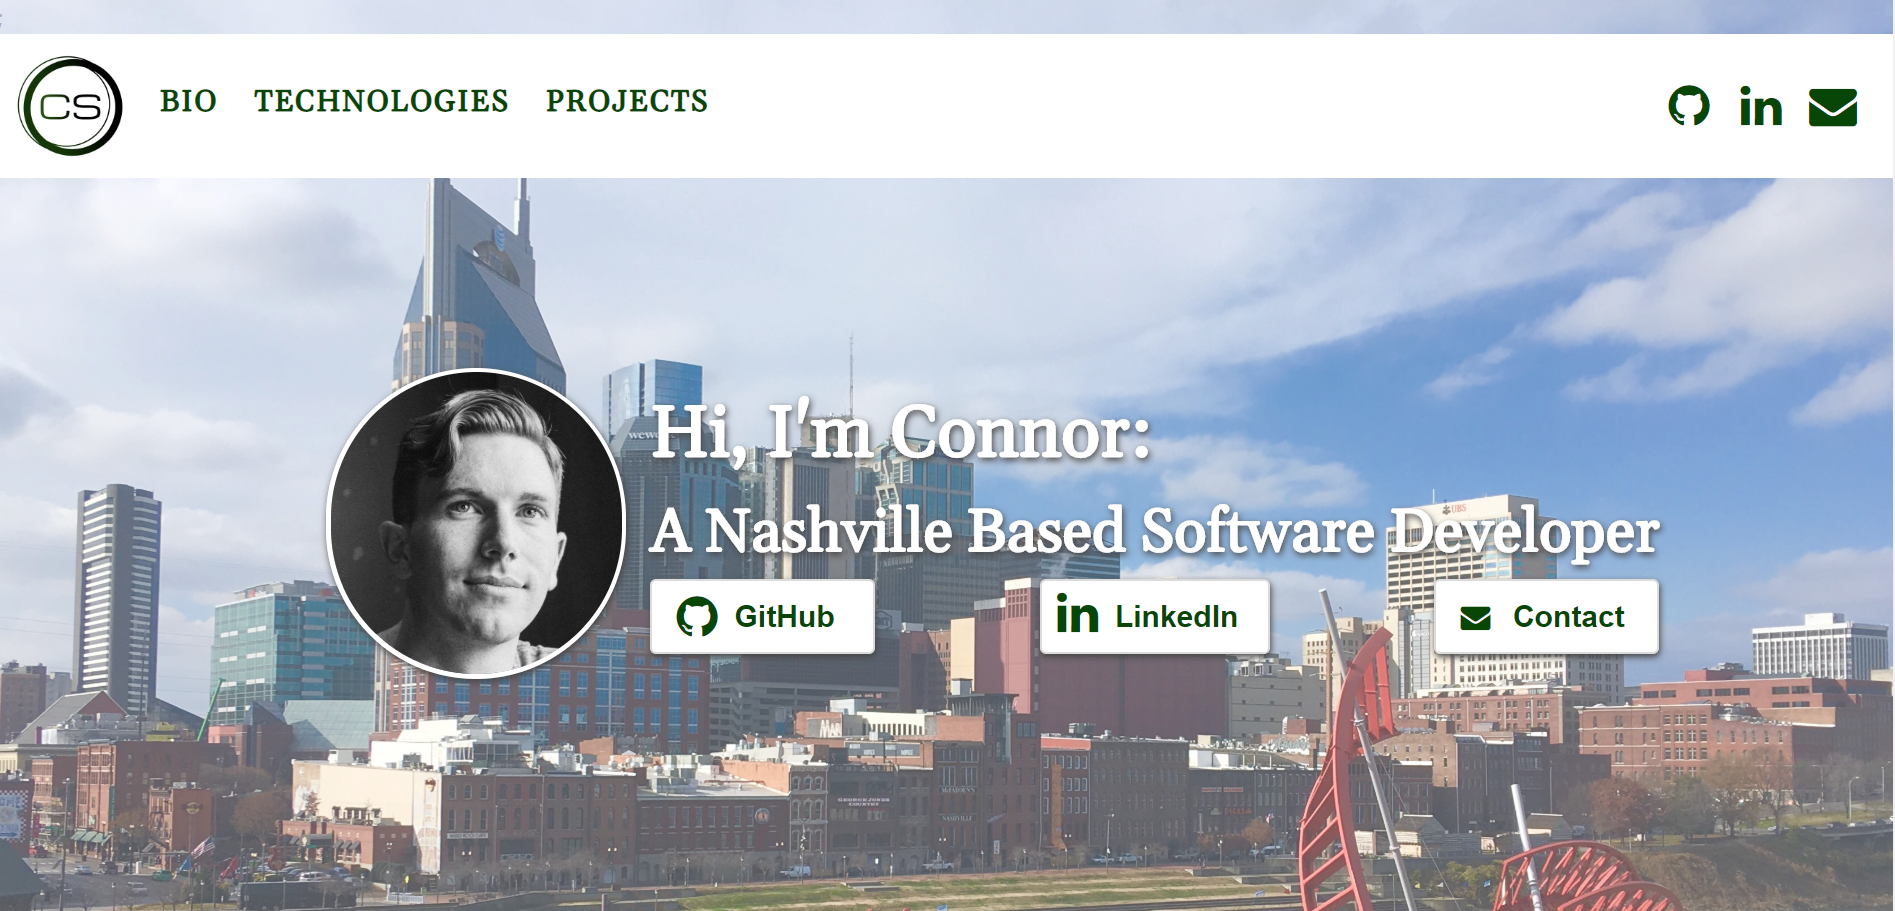
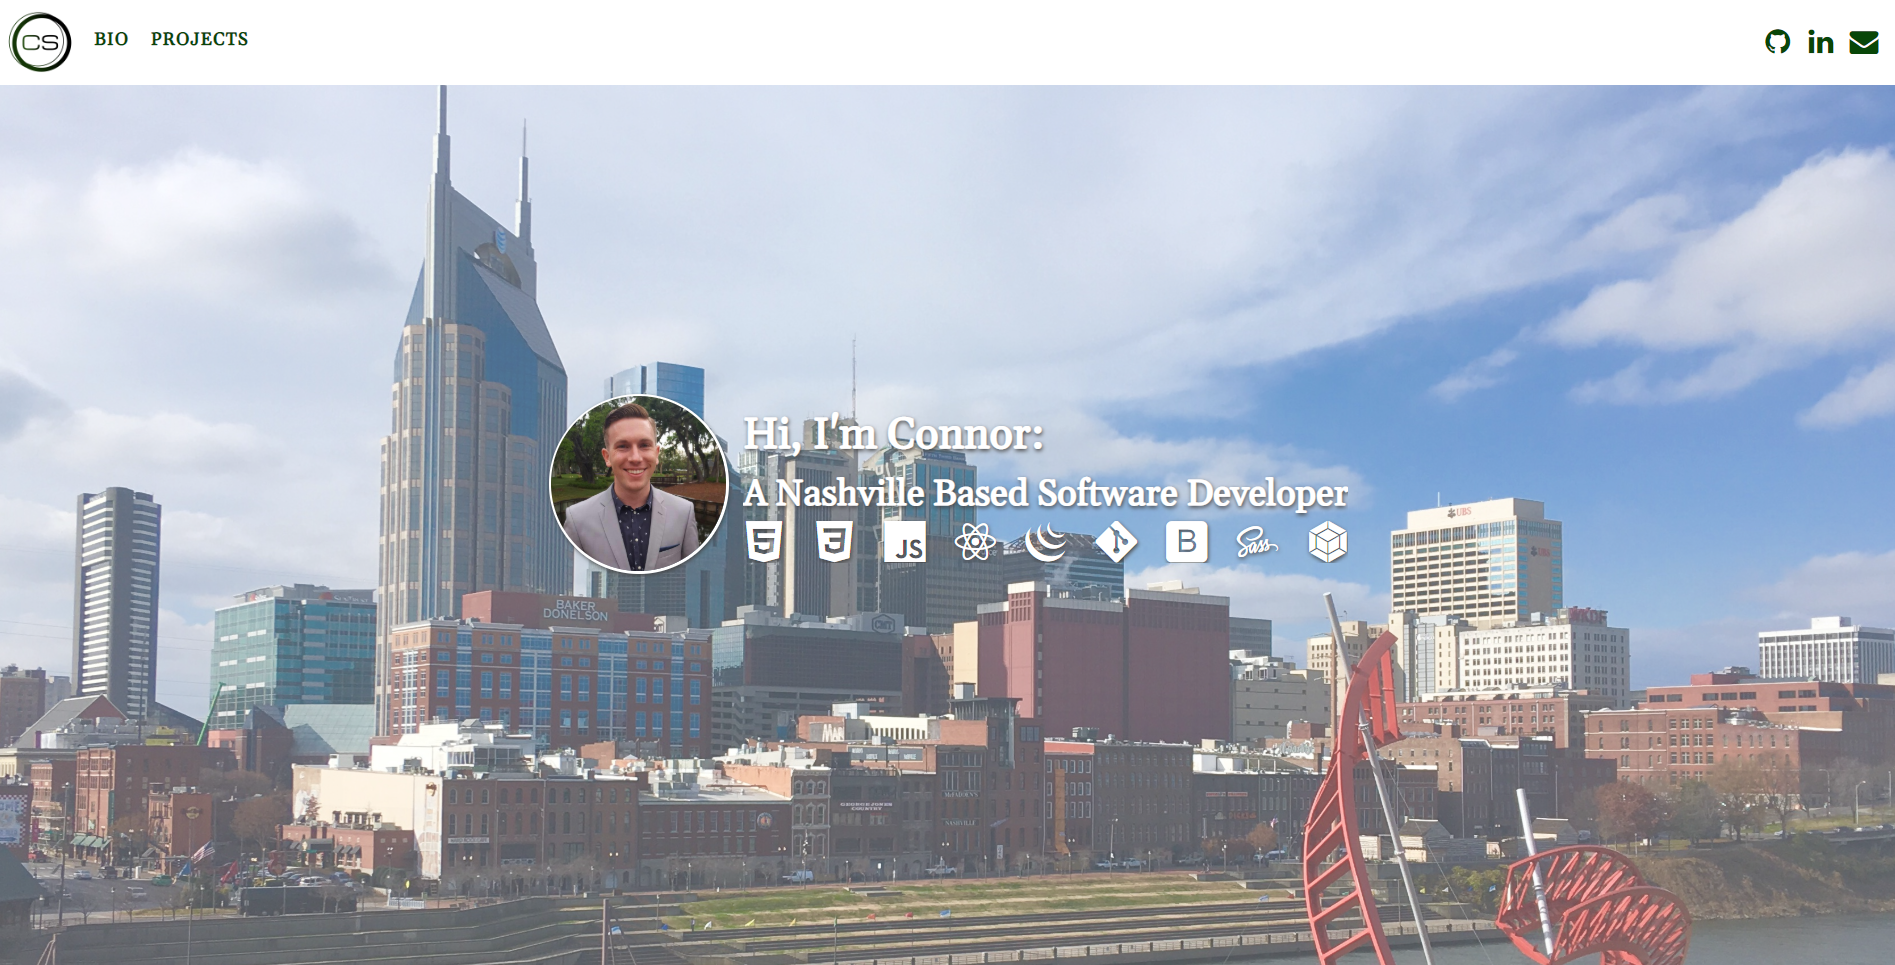
first draft of personal bio site is complete

diff --git a/src/index.html b/src/index.html
@@ -16,7 +16,7 @@ crossorigin="anonymous">
 
 <body>
 <header>
-  <nav class="navbar" role="navigation" aria-label="main navigation">
+  <nav class="navbar is-fixed-top" role="navigation" aria-label="main navigation">
     <div class="navbar-brand">
       <a class="navbar-logo" id="navToHome">
         <figure class="image is-96x96">
@@ -33,9 +33,6 @@ crossorigin="anonymous">
       <div class="navbar-start">
         <a class="navbar-item navSec heading is-size-5" id="navToBio">
           Bio
-        </a>
-        <a class="navbar-item navSec heading is-size-5" id="navToTechnologies">
-          Technologies
         </a>
         <a class="navbar-item navSec heading is-size-5" id="navToProjects">
           Projects
@@ -67,7 +64,7 @@ crossorigin="anonymous">
     <div class="homeBackground" id="homeBackground"></div>
     <div class="media home-header">
       <figure class="image media-left headshot">
-        <img class="is-rounded headPic" src="../images/blackAndWhite.jpg">
+        <img class="is-rounded headPic" src="../images/weddingSquare.jpg">
       </figure>
       <div class="media-content">
         <p class="is-size-1-desktop is-size-2-tablet is-size-6-mobile typedHeader">Hi, I'm Connor:</p>
@@ -83,32 +80,6 @@ crossorigin="anonymous">
             <i class="devicon devicon-sass-original"></i>
             <i class="devicon devicon-webpack-plain"></i>
         </div>
-        <!-- <div class="level buttons is-mobile">
-          <a href="https://github.com/ConnorSullivan10">
-            <button class="button is-medium homeBtn level-item">
-              <span class="icon is-medium">
-                <i class="btnIcon fa fab fa-github"></i>
-              </span>
-              <span class="btnText is-hidden-mobile">GitHub</span>
-            </button>
-          </a>
-          <a href="https://www.linkedin.com/in/connorksullivan10">
-            <button class="button is-medium homeBtn level-item">
-              <span class="icon is-medium">
-                <i class="btnIcon linkedinBtn fa fab fa-linkedin"></i>
-              </span>
-              <span class="btnText is-hidden-mobile">LinkedIn</span>
-            </button>
-          </a>
-          <a href="mailto:cksullvn@gmail.com">
-            <button class="button is-medium homeBtn level-item">
-              <span class="icon is-medium">
-                <i class="contactBtn fa far fa-envelope"></i>
-              </span>
-              <span class="btnText is-hidden-mobile">Contact</span>
-            </button>
-          </a>
-        </div> -->
       </div>
     </div>
   </div>
@@ -119,42 +90,10 @@ crossorigin="anonymous">
         Once I started working on landing pages at my first job out of school, and I had my first glimpse of what website code looked like, the door to my curiousity
         was blown wide open.
       </p>
-      <figure class="image column level-item is-one-third">
-        <img class="weddingShot bioPics is-rounded" src="../images/weddingSquare.jpg">
+      <figure class="image column level-item is-one-third blackAndWhite">
+        <img class="weddingShot bioPics is-rounded" src="../images/blackAndWhite.jpg">
       </figure>
     </div>
-    <!-- <section class="hero is-medium bio-hero is-bold has-text-centered">
-      <div class="hero-body">
-        <div class="container bioHead columns is-variable">
-          <div class="level">
-            <span class="column level-item head-level">
-              <figure class="image is-16x9">
-                <img class="is-rounded  careerArc nammShot" src="../images/namm.jpg">
-              </figure>
-              <p class="is-size-5 typedHeader music">Music</p>
-            </span>
-            <span class="arrow icon is-medium column level-item head-level has-text-centered">
-              <i class="fa fa-2x fas fa-long-arrow-right is-hidden-mobile" style="color: white;"></i>
-            </span>
-            <span class="column level-item head-level">
-              <figure class="image is-16x9">
-                <img class="is-rounded careerArc" src="../images/colorado.jpg">
-              </figure>
-              <p class="is-size-5 weddingSquareShot typedHeader">Marketing</p>
-            </span>
-            <span class="arrow icon is-medium column level-item head-level has-text-centered">
-              <i class="fa fa-2x fas fa-long-arrow-right is-hidden-mobile" style="color: white;"></i>
-            </span>
-            <span class="column level-item head-level">
-              <figure class="image is-16x9">
-                <img class="is-rounded careerArc coloradoShot" src="../images/nashville.jpg">
-              </figure>
-              <p class="is-size-5 typedHeader dev">Dev</p>
-            </span>
-          </div>
-        </div>
-      </div>
-    </section> -->
     <div class="section bottomBio columns level">
       <div class="bioSubImages column level-item is-one-third">
         <figure class="image">
@@ -181,68 +120,6 @@ crossorigin="anonymous">
               the consistent learning, challenges, creativity, and more-direct results I am able to drive as a developer.
         </p>
       </div>
-    </div>
-  </div>
-  <div class="fullPage technologiesPage columns has-text-centered is-desktop is-mobile is-multiline is-vcentered" id="technologiesPage">
-    <div class="column is-one-quarter is-inline-block">
-      <figure class="image tech is-inline-block">
[1 lines of base64/hex data omitted]
-      </figure>
-    </div>
-    <div class="column is-one-quarter is-inline-block">
-      <figure class="image tech is-inline-block">
-        <img class="tech" id="css-logo" src="https://redpixel.com/_uploads/CSS3_Badge_512.png"/>
-      </figure>
-    </div>
-    <div class="column is-one-quarter is-inline-block">
-      <figure class="image tech is-inline-block">
-        <img class="tech" id="js-logo"src="https://upload.wikimedia.org/wikipedia/commons/thumb/9/99/Unofficial_JavaScript_logo_2.svg/480px-Unofficial_JavaScript_logo_2.svg.png"/>
-      </figure>
-    </div>
-    <div class="column is-one-quarter is-inline-block">
-      <figure class="image tech is-inline-block" >
-        <img class="tech" id="react-logo"src="https://cdn4.iconfinder.com/data/icons/logos-3/600/React.js_logo-512.png"/>
-      </figure>
-    </div>
-    <div class="column is-one-quarter is-inline-block" >
-      <figure class="image tech is-inline-block">
-        <img class="tech" id="ajax-logo"src="https://upload.wikimedia.org/wikipedia/commons/thumb/a/a1/AJAX_logo_by_gengns.svg/1200px-AJAX_logo_by_gengns.svg.png"/>
-      </figure>
-    </div>
-    <div class="column is-one-quarter is-inline-block" >
-      <figure class="image tech is-inline-block">
-        <img class="tech" id="jquery-logo" src="http://pluspng.com/img-png/jquery-logo-png--512.png"/>
-      </figure>
-    </div>
-    <div class="column is-one-quarter is-inline-block" >
-      <figure class="image tech is-inline-block">
-        <img class="tech" id="github-logo" src="http://pngimg.com/uploads/github/github_PNG20.png"/>
-      </figure>
-    </div>
-    <div class="column is-one-quarter is-inline-block" >
-      <figure class="image tech is-inline-block">
-        <img class="tech" id="firebase-logo" src="https://seeklogo.com/images/F/firebase-logo-402F407EE0-seeklogo.com.png"/>
-      </figure>
-    </div>
-    <div class="column is-one-quarter is-inline-block" >
-      <figure class="image tech is-inline-block">
-        <img class="tech" id="bootstrap-logo" src="https://upload.wikimedia.org/wikipedia/commons/thumb/b/b2/Bootstrap_logo.svg/512px-Bootstrap_logo.svg.png"/>
-      </figure>
-    </div>
-    <div class="column is-one-quarter is-inline-block" >
-      <figure class="image tech is-inline-block">
-        <img class="tech" id="bulma-logo" src="https://www.saashub.com/images/app/service_logos/6/4ad2b9991817/large.png?1525414082"/>
-      </figure>
-    </div>
-    <div class="column is-one-quarter is-inline-block">
-      <figure class="image tech is-inline-block">
-        <img class="tech" id="sass-logo" src="https://sass-lang.com/assets/img/logos/logo-b6e1ef6e.svg"/>
-      </figure>
-    </div>
-    <div class="column is-one-quarter is-inline-block">
-      <figure class="image tech is-inline-block">
-        <img class="tech" id="webpack-logo" src="https://camo.githubusercontent.com/adcbb8ad40e0e76e48c9f96c56e3c305bf4c420f/68747470733a2f2f6968302e726564627562626c652e6e65742f696d6167652e3338383531343938382e353538362f666c61742c383030783830302c3037352c662e6a7067"/>
-      </figure>
     </div>
   </div>
   <div class="fullPage projectsPage" id="projectsPage"></div>

diff --git a/src/styles/main.scss b/src/styles/main.scss
@@ -32,23 +32,24 @@ image {
       justify-content: center;
     }
   }
-          .home-header {
-            position: relative;
-            opacity: 1 !important;
-            z-index: 2;
-            display: flex;
-            align-items: center;
-            margin-left: 5%;
-            margin-right: 5%;
-            .headshot {
-              max-height: 200px;
-              max-width: 200px;
-              .headPic{
-                box-shadow: 1px 2px 5px rgb(70, 69, 69);
-                border: solid 3px white;
-              }
-            }
-        }
+  
+ .home-header {
+  position: relative;
+  opacity: 1 !important;
+  z-index: 2;
+  display: flex;
+  align-items: center;
+  margin-left: 5%;
+  margin-right: 5%;
+  .headshot {
+    max-height: 200px;
+    max-width: 200px;
+    .headPic{
+      box-shadow: 1px 2px 5px rgb(70, 69, 69);
+      border: solid 3px white;
+    }
+  }
+}
 
 .bioPage {
     margin-left: 1em;
@@ -63,8 +64,9 @@ image {
   }
 }
 
-.bioPage, .projectsPage, .technologiesPage{
+.bioPage, .projectsPage{
   display: none;
+  margin-top: 100px;
 }
 
 .container {
@@ -74,54 +76,22 @@ image {
 }
 
 .typedHeader {
-      font-family: 'Gelasio', serif;
-      color: white;
-      text-shadow: 1px 2px 5px rgb(70, 69, 69);
-      font-weight: bold;
-}
-
-.homeBtn{
-  box-shadow: 1px 2px 5px rgb(70, 69, 69);
-
-  .btnIcon{
-    color: $cgreen;
-    font-size: 2rem;
-  }
-  
-  .btnText {
-    font-family: 'Exo', sans-serif;
-    font-weight: bold;
-    color: $cgreen;
-    padding-left: 5px;
-  }
-  
-  .linkedinBtn {
-    padding-bottom: 5px;
-  }
-  
-  .contactBtn {
-    color: $cgreen;
-  }
-}
-
-.technologiesPage {
-  margin-left: 1em;
-  margin-right: 1em;
-  align-items: space-around;
-  height: 100%;
-}
-
-.technologiesPage .column, .media-content {
-  opacity: 1;
+  font-family: 'Gelasio', serif;
+  color: white;
+  text-shadow: 1px 2px 5px rgb(70, 69, 69);
+  font-weight: bold;
   animation-name: fadeInOpacity;
   animation-iteration-count: 1;
   animation-timing-function: ease-in;
   animation-duration: .5s;
+}
+
+ .media-content {
   overflow: hidden;
   overflow: -moz-hidden-unscrollable;
 }
 
-#bioPage p, .hero {
+.bioPage p {
   opacity: 1;
   animation-name: fadeInOpacity;
   animation-iteration-count: 1;
@@ -177,17 +147,14 @@ image {
   padding-top: 0;
 }
 
-.tech {
-  max-width:175px;
-  max-height:175px;
-  min-height: 50px;
-  min-width: 50px;
-  width:100%;
-  height:100%;
-}
 
 .devicon {
   font-size: 2.9em;
   color: white;
   text-shadow: 1px 2px 5px rgb(70, 69, 69);
+}
+
+.blackAndWhite {
+  display: flex;
+  justify-content: center;
 }

diff --git a/src/javascripts/components/Navbar/navbar.js b/src/javascripts/components/Navbar/navbar.js
@@ -2,13 +2,9 @@ import $ from 'jquery';
 import './navbar.scss';
 
 const displayHome = () => {
-  $(document).ready(() => {
-    $('#technologiesPage').hide();
-  });
   $('#navToHome').on('click', () => {
     $('#homePage').show();
     $('#bioPage').hide();
-    $('#technologiesPage').hide();
     $('#projectsPage').hide();
   });
 };
@@ -17,16 +13,6 @@ const displayBio = () => {
   $('#navToBio').on('click', () => {
     $('#bioPage').show();
     $('#homePage').hide();
-    $('#technologiesPage').hide();
-    $('#projectsPage').hide();
-  });
-};
-
-const displayTechnologies = () => {
-  $('#navToTechnologies').on('click', () => {
-    $('#technologiesPage').show();
-    $('#homePage').hide();
-    $('#bioPage').hide();
     $('#projectsPage').hide();
   });
 };
@@ -36,7 +22,6 @@ const displayProjects = () => {
     $('#projectsPage').show();
     $('#homePage').hide();
     $('#bioPage').hide();
-    $('#technologiesPage').hide();
   });
 };
 
@@ -50,7 +35,6 @@ const burgerFunction = () => {
 const attachNavbarEvents = () => {
   displayHome();
   displayBio();
-  displayTechnologies();
   displayProjects();
   burgerFunction();
 };

diff --git a/README.md b/README.md
@@ -1,7 +1,14 @@
 # Personal Bio Site
 
+## Technologies Used
+1. HTML5, CSS, JavaScript
+2. SASS 0.5.0 & Bulma v0.8.0: All customized styling
+3. jQuery: For all DOM manipulation 
+4. Webpack: For creation of modules
+5. Firebase: For application hosting and database storage.
+
 ## Description
-This single-page application is an extremely rough draft with basic functionality for the basis of my Personal bio site, that will display my previous work and background going into a development career. The current version includes a navigation bar at the top to display my biography, the technologies I've used, along with some of my development projects at the current date. Clicking the titled buttons at the top left of the site will display the corresponding details of the button selected (including my name at the top and contact info in the footer).
+This single-page application is the basis of my personal web and software development portfolio, that displays my previous dev work and background prior to my development career. 
 
 ## Screenshots
 Personal Bio Site Preview
@@ -14,3 +21,5 @@ Personal Bio Site Preview
 * Install [https-server](https://www.npmjs.com/package/http-server) from npm
 * At the root of this project run the following command: `hs -p 8888`;
 * In your browser navigate to `https://localhost:8888`
+
+Navigate to the following link in your web browser: 
